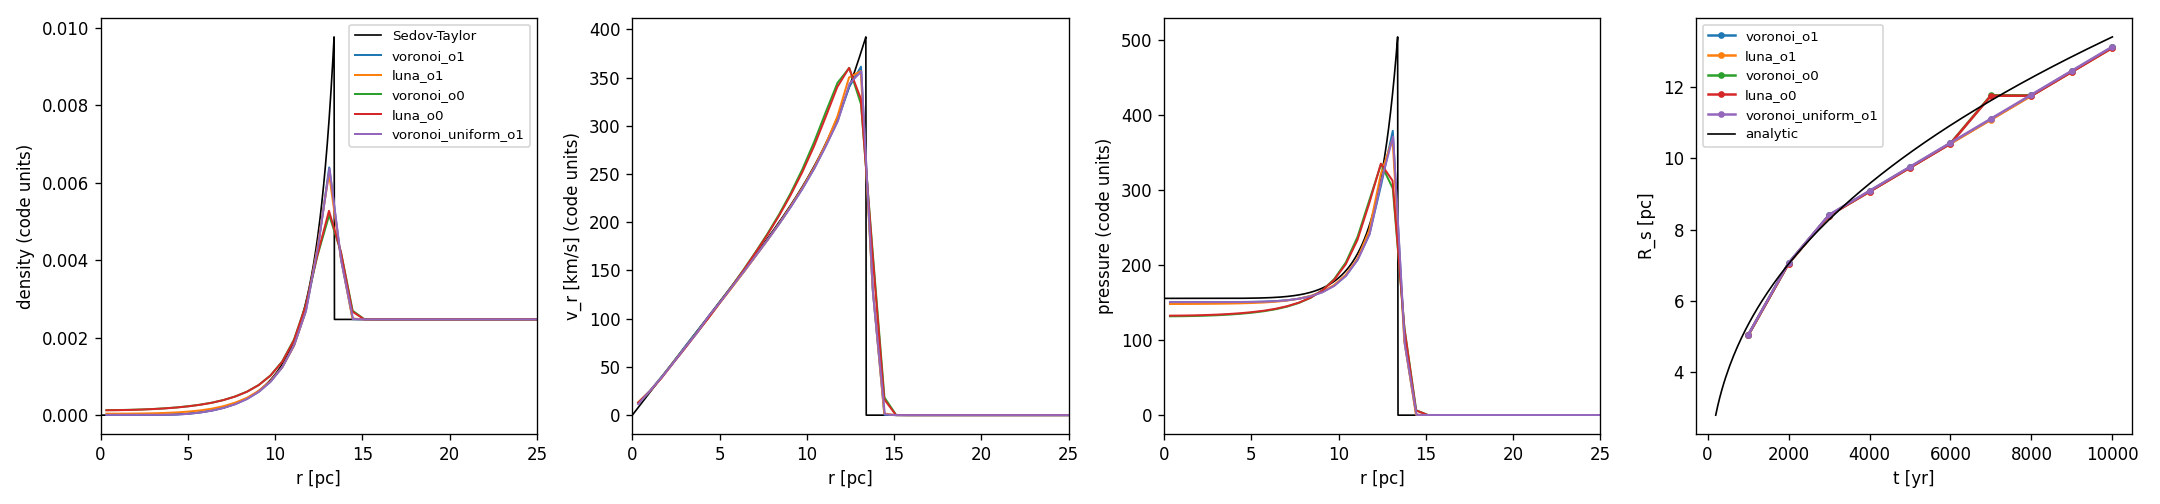
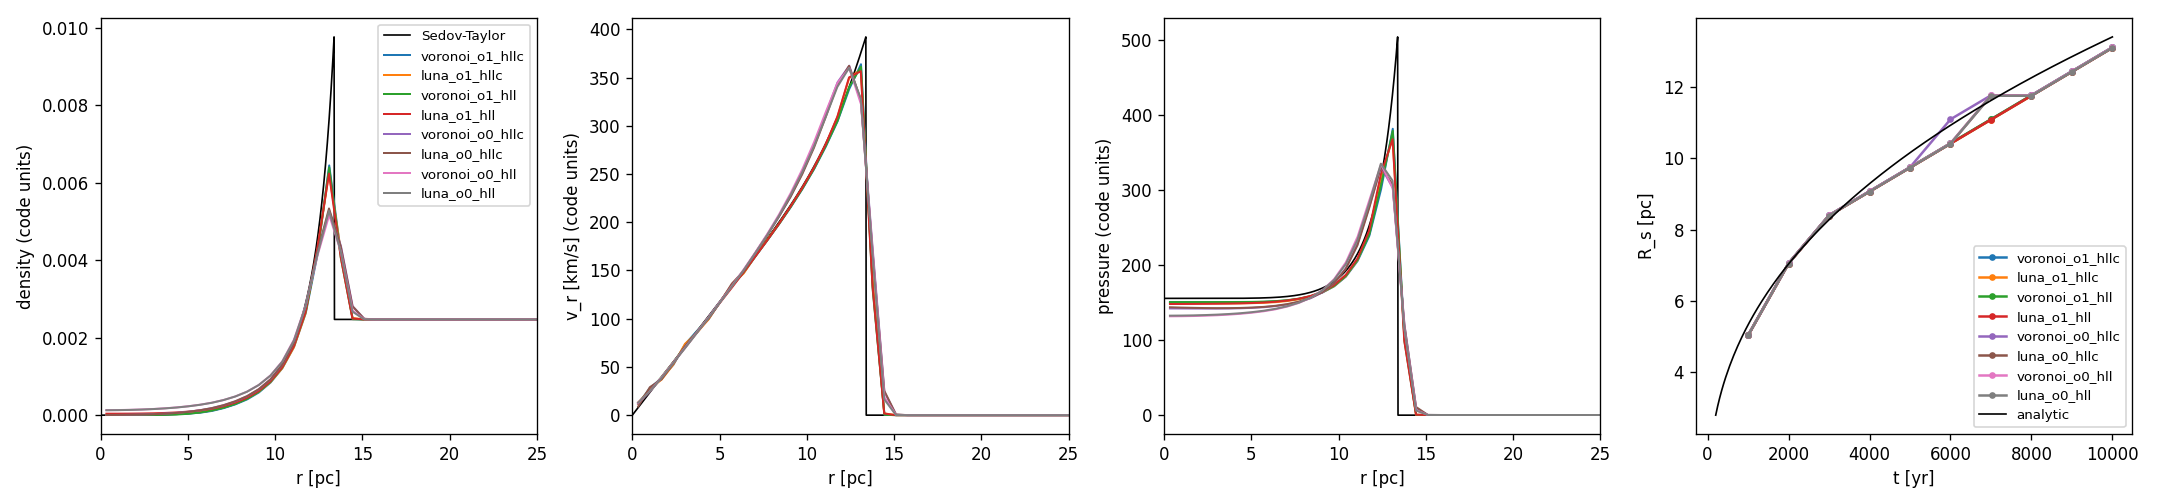
Notes: AREPO-ng time step and fallback, HLLC, limiter study, LUNA at 256^3
Each step mapped to LUNA and AREPO next generation (file:line); the
128^3 Sedov comparison with HLLC and HLL against LUNA (job 31699863); the
thin hot centre traced to the face-centroid limiter under HLL (AREPO-ng's
default, no deviation), gone with HLLC; throughput at 128^3 and 256^3
next to LUNA's XLA and Pallas kernels (jobs 31699864, 31699865); README
and TESTING updated.

diff --git a/research_notes/hydro_stage1_2026-10-31.md b/research_notes/hydro_stage1_2026-10-31.md
@@ -1,189 +1,214 @@
 # Hydro stage 1, 2026-10-31 (branch `hydro-stage1` from main 77a903b)
 
-Static Voronoi mesh, MUSCL-Hancock with HLL (owner's correction of the
-brief: MUSCL-Hancock, not forward Euler; the zero-gradient path is the
-first-order Godunov special case), one global time step, ideal gas.
-Code: `src/hydro/` (header library: `euler.hpp`, `finite_volume.hpp`,
-`snapshot.hpp`), driver `src/bench/hydro_sedov.cpp`, CTest `hydro`,
-A100 script `scripts/hydro_a100.sh`, analysis `scripts/hydro_sedov_compare.py`.
-Logs: `/raven/u/uli/voronoi-cpp/build-hydro/logs/`, runs and snapshots
-`build-hydro/runs2/` (final), `build-hydro/runs/` (first round).
+Static Voronoi mesh, MUSCL-Hancock with HLLC (default) or HLL (owner's
+decisions: MUSCL-Hancock, not forward Euler; HLLC as LUNA's default; the
+zero-gradient path is first-order Godunov), one global time step, ideal
+gas. Code: `src/hydro/` (header library: `euler.hpp`, `finite_volume.hpp`,
+`snapshot.hpp`), driver `src/bench/hydro_sedov.cpp`, CTest `hydro`, A100
+script `scripts/hydro_a100.sh`, analysis `scripts/hydro_sedov_compare.py`.
+Logs: `/raven/u/uli/voronoi-cpp/build-hydro/logs/`, final runs and
+snapshots `build-hydro/runs5/` (limiter study `runs4/`).
 
-References read for every scheme detail: LUNA at /raven/u/uli/LUNA (paths
-below relative to `src/luna/` unless they start with `scripts/`); AREPO
-next generation, read only, from /u/uli/codes/arepo:
+References for every scheme detail: LUNA at /raven/u/uli/LUNA (paths below
+relative to `src/luna/` unless they start with `scripts/` or `docs/`);
+AREPO next generation, read only, from /u/uli/codes/arepo:
 `origin/Arepo2-nextgeneration-SoA` (51af37f5, "SoA") and
 `origin/Arepo2-nextgeneration` (63107335, "ng"); AREPO line numbers are
-SoA unless marked ng. For gradients and limiter the two branches have the
-same algorithm (`diff` of `src/mesh/mesh_gradients.cc`: only the data
-layout and the loop over cells differ); for the face extrapolation the
-same code at other lines. AREPO master was read first and is not used
-(owner: next generation is the gold standard).
+SoA unless marked ng. The two branches have the same gradient, limiter and
+face-state algorithm (`diff` of `src/mesh/mesh_gradients.cc`: data layout
+and the cell loop only; `mesh_fluxes.cc`: the same code at other lines);
+SoA is followed. AREPO master was read first and is not used.
 
 ## What a step does, and where each piece comes from
 
-| Stage | LUNA (what it does, file:line) | Voronoi version (what we do) |
-|---|---|---|
-| state | U = (rho, rho v, E) per volume between steps; W = (rho, vx, vy, vz, P) from U at the start of the step (`time_integration/integrators.py:202-222`: `to_prim`, divergence, `U + dt dU`) | same; U as `View<double*[5]>` (SoA on CUDA), W never stored |
-| U -> W | `cons_to_prim` (`hydro/conversions.py:15-25`); with `preserve_face_states` `cons_to_prim_floored` (`:28-36`: rho >= smallr, e >= smallc^2/(gamma (gamma-1)) rho; U not changed), smallr = smallc = 1e-10 (`template_config.py:41-42`) | always the floored conversion (brief). In the Sedov runs the smallest cell density is 8.4e-6, so the density floor never acts on cell states |
-| time step | `cell_dt` = CFL / sum_d (abs(v_d) + c) / dx_d, CFL 0.8 (`integrators.py:11-13, 23-28`, `template_config.py:32`) | the brief's rule C min r/(c + abs(v)), r = (3V/4pi)^(1/3), C = 0.3, which is AREPO-ng's criterion (`src/time_integration/timestep.cc:156-165`: rad/(c + abs(v)) on a static mesh, times CourantFac). On a cubic cell ours is 0.186 dx/(c+abs(v)), LUNA's 0.267 dx/(c+abs(v)) for flow along an axis: 1.43x more steps from the rule alone |
-| first order | ORDER=0: HLL of the cell states (`hydro/muscl_hancock.py:34-64, 485-495`) | order 0: no gradients, face states = cell states |
-| gradients | per axis, limited one-sided differences of W (`hydro/slopes.py:150-159`; LIMITER 0 minmod `:8-10`, 1 MC `:22-24`, 2 van Leer `:26-33`, `slope_limiter` `:98-108`) | cannot carry over (no axes): AREPO-ng's least-squares fit (`src/mesh/mesh_gradients.cc:150-282`): W_j - W_i = a + g.d over all face neighbours, weight = face area (`:217`, `:263`), d between cell centroids (`:197`, `:243`), unknowns (a, g) (`:204`, `:250`); AREPO inverts by GSL LU (`:229-232`), we use Cholesky of the same symmetric positive definite 4x4 matrix, once for all five variables |
-| limiter | inside the slope (minmod of the one-sided differences) | AREPO-ng: per variable, min/max over the neighbours whose face is at least 1e-6 of the cell surface (`mesh_gradients.cc:61-70`, `src/data/constants.h:285`), then for each such face in order the gradient is scaled so the value at the face centroid stays in [min, max] (`:75-97`, `limit_gradient` `:120-148`; face centroid unless `USE_MINMOD_SLOPE_LIMITING`, `:85-94`). Master's velocity limiter `limit_vel_gradient` is declared in SoA `src/mesh/mesh.h:167` but never called: not used |
-| half step | W_half = W - dt/2 sum_d A_d(W) dW/dx_d, x then y then z (`hydro/muscl_hancock.py:105-116`, rows `hydro/jacobian.py:84-97`) | the same formula with the least-squares gradient as dW/dx_d (`euler.hpp: half_step`). AREPO-ng with `VORONOI_STATIC_MESH` adds the same advective terms to its convective extrapolation (`src/mesh/mesh_fluxes.cc:423-437`), so the two agree on a static mesh |
-| to the face | W_half +- dW/2, half a cell along the axis (`muscl_hancock.py:121-122`) | W_half + g.(face centroid - cell centroid), as AREPO-ng (`mesh_fluxes.cc:372`: FaceCenter - Grad.Center) |
-| bad face state | LUNA's Sedov run uses the defaults, floors off and `allow_first_order_faces=False`: an unphysical face (rho or P <= 0) becomes NaN and the run stops (`hydro/slopes.py:208-228`, `template_config.py:40, 43`); with floors the RAMSES rule (`slopes.py:181-186`) | LUNA's RAMSES rule (`euler.hpp: face_guard`). **Disagreement, the owner's call:** AREPO-ng drops the whole extrapolation when rho or P would not be positive (`mesh_fluxes.cc:467-479`, ng `:731`). How often the guard acts was not counted |
-| Riemann solver | HLL `_hll_core` (`hydro/fluxes.py:135-167`), Davis speeds S_L = min(vn_L - c_L, vn_R - c_R), S_R = max(vn_L + c_L, vn_R + c_R) (`:146-147`), safe sqrt for c (`:142-145`), in the rotated normal frame (`:42-48`) | the same formulas along n = A/abs(A) without rotation (HLL is linear in the vector components, so this equals rotate, solve, rotate back up to rounding: 8e-16 from LUNA's float64 values in CTest `hydro`); a face-velocity argument w for stage 3 with the lab-frame conversion of AREPO-ng's `flux_convert_to_lab_frame` (`mesh_fluxes.cc:492-498`). AREPO-ng has no HLL |
-| update | U + dt dU (`integrators.py:222`) | U_i += -dt / V_i sum over the cell's face list of the outgoing flux times abs(A), in the list's fixed order. AREPO-ng applies two half-weighted flux passes per step (`mesh_fluxes.cc:158`, `src/main/run.cc:166, 285`); not used (owner: MUSCL-Hancock) |
+| Stage | LUNA (file:line) | AREPO-ng (file:line) | Voronoi version |
+|---|---|---|---|
+| state | U = (rho, rho v, E) per volume; W = (rho, vx, vy, vz, P) from U at the start of the step (`time_integration/integrators.py:202-222`) | | same; U as `View<double*[5]>`, W never stored |
+| U -> W | `cons_to_prim`, with `preserve_face_states` `cons_to_prim_floored` (`hydro/conversions.py:15-36`; smallr = smallc = 1e-10, `template_config.py:41-42`) | Utherm floored at MinEgySpec, U changed (`src/mesh/mesh_update_primitives.cc:161-178`) | LUNA's floored conversion, U unchanged (brief); the smallest cell density in the runs is 3.0e-6, the floor 1e-10 |
+| time step | CFL / sum_d (abs(v_d) + c) / dx_d, CFL 0.8 (`integrators.py:11-13, 23-28`, `template_config.py:32`) | per cell CourantFac * min(r / (c + abs(v)) [static mesh], min over particles j a signal can reach of (d_ij + r_i) / (c_i + c_j - (v_j - v_i).d_ij/d_ij)) (`src/data/sph_particle_data.h:305-334`; `src/time_integration/timestep.cc:148-171`; `timestep_treebased.cc:72-91`); r = (3V/4pi)^(1/3) (`sph_particle_data.h:280-287`); with `FORCE_EQUAL_TIMESTEPS` the global minimum (`timestep.cc:39-63`), rounded down to the power-of-two time bins; CourantFac is a parameter (`src/data/allvars.cc:103`), 0.3 in every Sedov example (`examples/sedov_3d/sedov_globaltstp_3d/param.txt:52`, the global-step Sedov), 0.4 in the documentation's example (`documentation/05_parameterfile.md:638`) | **AREPO-ng** (owner): its cell criterion, the pair criterion over the face neighbours only (AREPO walks the tree; a non-neighbour j cannot set the global minimum when d_ij >= r_j, since then (d_ij + r_i)/(A_i + A_j) >= min(r_i/A_i, r_j/A_j), A = c + abs(v)); no time-bin rounding; CourantFac 0.3 |
+| first order | ORDER=0 (`hydro/muscl_hancock.py:34-64, 485-495`) | | order 0: face states = cell states |
+| gradients | per axis, limited one-sided differences (`hydro/slopes.py:150-159`, minmod `:8-10`) | least squares W_j - W_i = a + g.d over all face neighbours, weight = face area (`src/mesh/mesh_gradients.cc:217, 263`), d between cell centroids (`:197, 243`), unknowns (a, g) (`:204, 250`), GSL LU inverse (`:229-232`) | AREPO-ng's fit (LUNA's axes do not exist here); Cholesky of the same SPD 4x4 matrix, once for all five variables |
+| limiter | minmod inside the slope | per variable, min/max over neighbours whose face is at least 1e-6 of the cell surface (`mesh_gradients.cc:61-70`, `src/data/constants.h:285`); for each such face in order, `limit_gradient` keeps W_i + g.d within [min, max] (`:75-97, 120-148`) with d to the face centroid, or to the neighbour's centroid with `USE_MINMOD_SLOPE_LIMITING` (`:85-94`); master's velocity limiter is declared (`src/mesh/mesh.h:167`) but not called | AREPO-ng, face centroids (default); `hydro::Limiter` also offers the cell-centroid variant and none (study below) |
+| half step | W - dt/2 sum_d A_d(W) dW/dx_d (`muscl_hancock.py:105-116`, `hydro/jacobian.py:84-97`) | in the gas frame, plus the advective terms on a static mesh: the same terms (`mesh_fluxes.cc:376-449`); time integration is two half-weighted flux passes (`:158`, `src/main/run.cc:166, 285`) | LUNA's formula (owner: MUSCL-Hancock) |
+| to the face | W_half +- dW/2 (`muscl_hancock.py:121-122`) | W + time and space extrapolation to the face centroid from the gradient's centroid (`mesh_fluxes.cc:372, 451-465`) | W_half + g.(face centroid - cell centroid) |
+| bad face state | Sedov defaults: an unphysical face becomes NaN and the run stops (`hydro/slopes.py:208-228`, `template_config.py:40, 43`) | if rho or P of the extrapolated state is not positive, neither extrapolation is added: the cell-centre W (`mesh_fluxes.cc:466-479`, ng `:731`) | **AREPO-ng** (owner): the cell's W; counted per step (per-face loop) |
+| Riemann solver | HLLC `_hllc_core` (`hydro/fluxes.py:51-106`), the default (`template_config.py:36`); HLL `_hll_core` (`:135-167`); Davis speeds (`:65-66, 146-147`); rotated normal frame (`:9-48`) | no HLL; exact, HLLD (`src/riemann/`) | HLLC (default) and HLL with LUNA's formulas and guards, along n in box axes; lab-frame conversion for a moving face as AREPO-ng (`mesh_fluxes.cc:492-498`) |
+| update | U + dt dU (`integrators.py:222`) | | U_i += -dt / V_i sum over the cell's face list, fixed order |
 
-Our own choices (in neither code): Cholesky instead of LU (same matrix,
-rounding only); the deposit set and the L1 metric (below).
+Solving along n without rotation: in HLL and HLLC every branch is chosen
+by scalars (S_L, S_M, S_R) that do not depend on the frame, and within a
+branch each flux component is the same linear combination of the matching
+components of F, U and U*; HLLC's star momentum rho* (S_M, vt1, vt2) is
+rho* (v_t + S_M n) in box axes with v_t = v - (v.n) n. Rotating is then
+the identity up to rounding; CTest `hydro` checks it under 1000 random
+rotations (3.5e-14) and against LUNA's float64 values (HLL 12 faces,
+8e-16; HLLC 15 faces, 5e-16).
 
 ## Sedov set-up (`scripts/validation/runs/sedov3d_run.py`, `ic_generation/sedov3d.py`)
 
 AREPO units kpc, 1e10 Msun, km/s (`sedov3d_run.py:19-27`), 50 pc box,
-gamma 5/3, t_end = 1e4 yr = 1.0227e-5 (`:28-29, 39-45`); rho = 1 m_p cm^-3,
-P = n k 1e4 K, E = 1e51 erg in code units (`sedov3d.py:9-14, 41-46`):
-rho = 2.4708e-3, P = 0.20395, E = 5.0279e-3. LUNA adds p_inject =
+gamma 5/3, t_end = 1e4 yr = 1.0227e-5 (`:28-29, 39-45`); rho = 1 m_p
+cm^-3, P = n k 1e4 K, E = 1e51 erg in code units (`sedov3d.py:9-14,
+41-46`): rho = 2.4708e-3, P = 0.20395, E = 5.0279e-3. LUNA adds
 (gamma-1) E / (8 dx^3) to P in the 8 central cells (`sedov3d.py:79-106`).
-Ours: cells sorted by the distance of their generator from the box centre
-(periodic nearest image); the deposit set is the prefix of that order
-whose volume sum is closest to 8 (L/128)^3; p_inject = (gamma-1) E /
-V_deposit with V_deposit its actual volume, so exactly E goes in.
-Jittered: 8 cells, 4.690e-10 vs LUNA's 4.768e-10, generators within 0.38
-pc of the centre; uniform random: 7 cells, 4.787e-10, within 0.41 pc.
-LUNA's boundary is zero-gradient (BOUNDARY=1, `sedov3d_run.py:39`), ours
-periodic: at t_end the farthest cell whose density or pressure differs
-from the background by more than 1e-6 is at 15.1-15.9 pc (table below) in
-both codes, the half box is 25 pc: the boundaries never see the blast.
+Ours: cells by distance of their generator from the centre; the deposit
+set is the prefix whose volume sum is closest to 8 (L/128)^3, with
+p_inject = (gamma-1) E / (its actual volume): 8 cells, 4.690e-10 vs
+4.768e-10, within 0.38 pc (jittered); 7 cells (uniform random). LUNA's
+boundary is zero-gradient, ours periodic: at t_end no cell beyond 16.3 pc
+differs from the background by more than 1e-6 (both codes; half box 25 pc).
+Points: jittered lattice (0.1 spacings) or uniform random, in Morton order.
 
-Points: `support::make_points_off_grid` (jittered: lattice moved by up to
-0.1 spacings; uniform random), scaled to the box and renumbered in Morton
-order by the driver (the mesh keeps the caller's numbering; see throughput).
+## Validation at 128^3 (2,097,152 cells), A100, job 31699863
 
-## Validation at 128^3 (2,097,152 cells), A100, job 31698375
+All runs to t_end with 10 snapshots; LUNA `ORDER=1 LIMITER=0` or
+`ORDER=0`, `enable_x64=1`, `~/jax-env`. R_s: peak of the radial density
+profile as LUNA's `scripts/validation/plots/sedov3d_plot.py:78-85` (64
+bins of 0.67 pc; both codes fall in the same bin at all 10 times, so R_s
+resolves nothing finer). L1: volume-weighted mean abs(f - f_exact) over
+r < 1.5 R_s, divided by rho0, the largest analytic v_r and P; "centre":
+the same for density over r < R_s/2 (not LUNA metrics). Analytic: LUNA's
+`hydro/exact_sedov.py`.
 
-Every run to t_end with 10 snapshots. LUNA: /raven/u/uli/LUNA with
-`~/jax-env` (jax 0.10.1, as LUNA's `submit/` scripts), `ORDER=1 LIMITER=0`
-or `ORDER=0`, `riemann_solver=hll enable_x64=1`. Analysis:
-`scripts/hydro_sedov_compare.py` (analytic: LUNA's
-`hydro/exact_sedov.py:solution`). R_s: peak of the radial density profile
-as LUNA's `scripts/validation/plots/sedov3d_plot.py:78-85` with
-`metrics.radial_profile` (64 bins of 0.67 pc; both codes land in the same
-bins, so R_s resolves nothing finer). L1: volume-weighted mean of
-abs(f - f_exact) over r < 1.5 R_s(analytic), divided by rho0, by the
-largest analytic v_r and by the largest analytic P (not a LUNA metric).
-
-| run | steps | R_s / analytic (13.395 pc) | max cell rho/rho0 | profile peak rho/rho0 | L1 rho | L1 v_r | L1 P | disturbed radius |
+| run | steps | R_s/analytic | profile peak rho/rho0 | L1 rho | L1 v_r | L1 P | min rho/rho0 | L1 rho, centre |
 |---|---|---|---|---|---|---|---|---|
-| Voronoi MUSCL-Hancock, jittered | 1110 | 0.978 | 2.843 | 2.587 | 0.0698 | 0.0236 | 0.0193 | 15.07 pc |
-| LUNA ORDER=1 (minmod) | 386 | 0.977 | 2.735 | 2.523 | 0.0708 | 0.0235 | 0.0190 | 15.24 pc |
-| Voronoi first order, jittered | 369 | 0.978 | 2.218 | 2.090 | 0.1010 | 0.0414 | 0.0307 | 15.92 pc |
-| LUNA ORDER=0 | 237 | 0.977 | 2.270 | 2.134 | 0.0974 | 0.0386 | 0.0290 | 15.86 pc |
-| Voronoi MUSCL-Hancock, uniform random | 1953 | 0.980 | 3.060 | 2.576 | 0.0719 | 0.0248 | 0.0207 | 15.66 pc |
+| Voronoi MUSCL-Hancock HLLC | 1642 | 0.978 | 2.608 | 0.0750 | 0.0289 | 0.0203 | 1.43e-3 | 0.0077 |
+| LUNA ORDER=1 HLLC | 1079 | 0.977 | 2.528 | 0.0766 | 0.0311 | 0.0203 | 1.45e-3 | 0.0058 |
+| Voronoi MUSCL-Hancock HLL | 1110 | 0.978 | 2.587 | 0.0698 | 0.0236 | 0.0193 | 3.42e-3 | 0.0022 |
+| LUNA ORDER=1 HLL | 386 | 0.977 | 2.523 | 0.0708 | 0.0235 | 0.0190 | 1.53e-2 | 0.0187 |
+| Voronoi first order HLLC | 1698 | 0.978 | 2.136 | 0.1035 | 0.0446 | 0.0298 | 1.23e-3 | 0.0182 |
+| LUNA ORDER=0 HLLC | 1098 | 0.977 | 2.159 | 0.1039 | 0.0454 | 0.0296 | 1.35e-3 | 0.0172 |
+| Voronoi first order HLL | 369 | 0.978 | 2.090 | 0.1010 | 0.0414 | 0.0307 | 5.19e-2 | 0.0745 |
+| LUNA ORDER=0 HLL | 237 | 0.977 | 2.134 | 0.0974 | 0.0386 | 0.0290 | 5.10e-2 | 0.0734 |
 
-R_s(t) at the 10 snapshot times: the two codes fall in the same bin at
-every time. Plot: `reports/hydro_stage1_sedov128.png` (profiles at 1e4 yr,
-R_s(t)). Conservation over the full runs: total mass and energy change by
-at most 1.7e-16 relative; total momentum stays below 1.1e-22 (scale 5.6e-5).
+Plot: `reports/hydro_stage1_sedov128.png`. Conservation over every full
+run: mass and energy change by at most 1.7e-16 relative.
 
-Steps: first order 369 against LUNA's 237 is the time-step rule (x1.43).
-MUSCL-Hancock takes 1110 against 386: the hot centre is thinner in our run
-(at t_end min rho 8.4e-6 vs LUNA's 3.8e-5, max c + abs(v) 5556 vs 2564
-km/s; job 31698083 snapshots), so the global step is a further 2.2x
-smaller. The analytic centre density goes to zero; whether the limiter
-(AREPO's face limiter vs minmod) or the gradient causes it was not isolated.
+Face fallbacks (AREPO-ng rule), per-face loop, MUSCL-Hancock: HLLC 122,333
+face sides over 1642 steps (in 1638 steps, at most 143 in one step, of
+33.4M face sides per step); HLL 84,310 over 1110 steps (at most 146).
 
-## Throughput, A100 40 GB, double, job 31698376 (gpu1)
+### The thin hot centre and the step count (owner's item 3)
 
-Median over 40 steps from the Sedov start (phases fenced; "time step" =
-the dt reduction); cell updates per second = n / sum of the phase
-medians. Order 1 = MUSCL-Hancock; (b) = per-cell loop (each face flux
-computed from both sides), (c) = per-face flux array plus per-cell gather.
-Jittered points in Morton order unless stated.
+Line by line against `mesh_gradients.cc` (weights, unknowns, centroid
+distances, all neighbours in the fit, the 1e-6 surface threshold for
+min/max and limiter, `limit_gradient` face by face in order, face-centroid
+extrapolation): no deviation found. Variants, 128^3 jittered (jobs
+31699165 with HLL, 31699546 with HLLC, both with the AREPO-ng time step
+and fallback; first order from job 31699863):
 
-| n | order | loop | time step ms | gradients ms | fluxes ms | gather ms | step ms | M cell updates/s |
-|---|---|---|---|---|---|---|---|---|
-| 128^3 | 1 | (b) | 0.12 | 7.06 | 11.95 (with update) | | 19.13 | 110 |
-| 128^3 | 1 | (c) | 0.12 | 7.07 | 2.26 | 5.65 | 15.09 | 139 |
-| 128^3 | 0 | (b) | 0.12 | | 3.37 (with update) | | 3.48 | 602 |
-| 128^3 | 0 | (c) | 0.12 | | 1.52 | 5.65 | 7.29 | 288 |
-| 256^3 | 1 | (b) | 0.69 | 56.66 | 96.21 (with update) | | 153.6 | 109 |
-| 256^3 | 1 | (c) | 0.69 | 56.72 | 17.96 | 45.30 | 120.7 | 139 |
-| 256^3 | 0 | (b) | 0.69 | | 26.50 (with update) | | 27.2 | 617 |
-| 256^3 | 0 | (c) | 0.69 | | 12.14 | 45.31 | 58.1 | 289 |
-| 128^3 uniform random | 1 | (b) | 0.12 | 8.08 | 11.97 (with update) | | 20.17 | 104 |
-| 128^3 uniform random | 1 | (c) | 0.12 | 8.10 | 2.25 | 5.43 | 15.89 | 132 |
+| solver | limiter | steps | min rho/rho0 | L1 rho | L1 rho, centre |
+|---|---|---|---|---|---|
+| HLL | face centroids (AREPO-ng default) | 1110 | 3.4e-3 | 0.0698 | 0.0022 |
+| HLL | cell centroids (`USE_MINMOD_SLOPE_LIMITING`) | 538 | 1.9e-2 | 0.0785 | 0.0251 |
+| HLL | none | NaN after 112 steps | | | |
+| HLL | first order | 369 | 5.2e-2 | 0.1010 | 0.0745 |
+| LUNA HLL | minmod | 386 | 1.5e-2 | 0.0708 | 0.0187 |
+| HLLC | face centroids | 1642 | 1.4e-3 | 0.0750 | 0.0077 |
+| HLLC | cell centroids | 1638 | 1.4e-3 | 0.0841 | 0.0066 |
+| HLLC | none | NaN after 158 steps | | | |
+| LUNA HLLC | minmod | 1079 | 1.5e-3 | 0.0766 | 0.0058 |
 
-Particle order, same job: with the generator's order (lattice rows;
-uniform: random) instead of Morton, order 1: 128^3 jittered (b) 115, (c)
-133 M/s (rows are as good as Morton at this size); 256^3 jittered (b) 67,
-(c) 119 M/s; 128^3 uniform random (b) 16, (c) 23 M/s. The driver uses
-Morton order.
+Cause: with HLL, the face-centroid limiter (AREPO-ng's default) lets the
+centre empty further than minmod (closer to the analytic zero: centre L1
+0.0022 vs 0.0187); the cell-centroid variant gives LUNA's centre and half
+the steps. With HLLC (the default now) both codes empty the centre to
+1.4e-3 rho0 and agree. Not a deviation from AREPO-ng; nothing changed.
+The remaining step ratio with HLLC, 1642/1079 = 1.52, is the time-step
+rule (1.43 on a cubic cell for flow along an axis, above).
 
-Choice: for MUSCL-Hancock (c) is 1.26x (128^3) and 1.28x (256^3) faster
-than (b): the Riemann solve and the face states are done once per face, at
-the price of a 5.6 ms gather. At first order it is the reverse, (b) is
-2.1x faster (cheap flux; the gather dominates). (c) needs the face flux
-array (5 doubles per face, 318 B/cell) and still fits at 256^3 with 1.2 GB
-to spare (memory below). Default in `hydro_sedov`: (c) at order 1; (b) stays
-for first order and as the low-memory option.
+## Throughput, A100 40 GB, double, jobs 31699864 (128^3) and 31699865 (256^3)
 
-Whole Sedov runs (validation job 31698375, 11 HDF5 snapshots, loop (b)):
-MUSCL-Hancock 25.0 s, first order 5.1 s.
+Median over 40 steps from the Sedov start; phases fenced; "time step" =
+the AREPO-ng criterion (one pass over the face neighbours); cell updates
+per second = n / sum of the phase medians. (c) = per-face flux array +
+gather (default at second order), (b) = per-cell loop (default at first
+order). Jittered, Morton order.
+
+| n | order | solver | loop | time step | gradients | fluxes | gather | step ms | M cell updates/s |
+|---|---|---|---|---|---|---|---|---|---|
+| 128^3 | 1 | HLLC | (c) | 2.27 | 7.30 | 3.44 | 5.65 | 18.66 | 112 |
+| 128^3 | 1 | HLLC | (b) | 2.27 | 7.27 | 18.21 (with update) | | 27.76 | 76 |
+| 128^3 | 1 | HLL | (c) | 2.27 | 7.27 | 2.84 | 5.64 | 18.03 | 116 |
+| 128^3 | 1 | HLL | (b) | 2.27 | 7.28 | 12.06 | | 21.61 | 97 |
+| 128^3 | 0 | HLLC | (b) | 2.28 | | 5.01 | | 7.29 | 288 |
+| 128^3 | 0 | HLL | (b) | 2.27 | | 3.45 | | 5.73 | 366 |
+| 256^3 | 1 | HLLC | (c) | 18.69 | 58.78 | 37.49 | 45.25 | 160.2 | 105 |
+| 256^3 | 1 | HLLC | (b) | 18.70 | 58.78 | 146.72 | | 224.2 | 75 |
+| 256^3 | 1 | HLL | (c) | 18.72 | 58.80 | 24.53 | 45.25 | 147.3 | 114 |
+| 256^3 | 1 | HLL | (b) | 18.72 | 58.75 | 95.63 | | 173.1 | 97 |
+| 256^3 | 0 | HLLC | (b) | 18.67 | | 39.15 | | 57.8 | 290 |
+| 256^3 | 0 | HLL | (b) | 18.71 | | 27.38 | | 46.1 | 364 |
+
+Earlier jobs for the record: with the brief's local rule only (no pair
+criterion) the time step took 0.12 ms (128^3); counting fallbacks inside
+the per-cell loop by a reduction made it 2x slower (job 31699166), so (b)
+does not count them. Particle order (job 31698376, HLL, older time step):
+in generator order instead of Morton, 256^3 (b) 67 vs 109 M/s, uniform
+random 128^3 (b) 16 vs 104 M/s.
+
+Whole MUSCL-Hancock runs, 128^3, no snapshots (job 31699864): HLLC 1642
+steps, 30.6 s of GPU phases (18.6 ms/step); HLL 1110 steps, 20.1 s.
 
 ### LUNA on the same problem and GPU type (reference; not for the README)
 
-| | steps | ms/step | M cells/s | job |
-|---|---|---|---|---|
-| LUNA ORDER=1 HLL minmod, no snapshots | 383 | 6.34 | 331 | 31698376 (same job as the table above) |
-| LUNA ORDER=0 HLL, no snapshots | 234 | 3.68 | 570 | 31698376 |
-| LUNA ORDER=1, no snapshots | 383 | 7.77 | 270 | 31698086 (earlier job) |
-| LUNA ORDER=0, no snapshots | 234 | 5.54 | 378 | 31698086 |
-| LUNA ORDER=1, 11 snapshots | 386 | 13.11 / 18.19 | 160 / 115 | 31698375 / 31698083 |
+LUNA's own 10-step "perf" windows (steady: the median over the windows
+after step 10), and its "Performance after step 1" line (whole run,
+compile excluded). Kernels: `hydro_kernel='xla'` (default) and
+`'pallas'` (`docs/CONFIG.md:33, 652-655`; LUNA's docs report the Pallas
+split step on an A100 at 1108 Mcell/s, Sedov 512^3 FP64,
+`docs/HYDRO_KERNEL_PATHS.md:145-150`; the fused XLA kernel was slower
+here, jobs 31699166 and 31699167: 359 vs 413 M/s at 128^3, 509 vs 682 at 256^3).
 
-LUNA's numbers are its "Performance after step 1 (no compile, output
-included)" line; they vary by 20-40 % between jobs. Per step our
-MUSCL-Hancock (c) (15.1 ms) is 2.4x LUNA's 6.3 ms; per run (steps x
-ms/step: 1110 x 15.1 ms = 16.8 s against 383 x 6.3 ms = 2.4 s) about 7x,
-at the same accuracy (validation table). The extra steps (above) are half
-of it.
+| n | solver | kernel | steady M cells/s | whole run ms/step | steps | job |
+|---|---|---|---|---|---|---|
+| 128^3 | HLLC | Pallas | 833 | 2.97 | 1075 | 31699864 |
+| 128^3 | HLLC | XLA | 481 | 4.81 | 1075 | 31699864 |
+| 128^3 | HLL | Pallas | 942 | 3.49 | 383 | 31699864 |
+| 128^3 | HLL | XLA | 413 | 6.31 | 383 | 31699864 |
+| 256^3 | HLLC | Pallas | 1050 | 20.21 | 100 | 31699865 |
+| 256^3 | HLLC | XLA | 633 | 30.77 | 100 | 31699865 |
+| 256^3 | HLL | Pallas | 1249 | 17.51 | 100 | 31699865 |
+| 256^3 | HLL | XLA | 666 | 29.43 | 100 | 31699865 |
 
-## Memory (Kokkos allocations on the device, `--memory`, job 31698376)
+Against ours (same jobs): at 256^3 HLLC, ours 105 M/s vs LUNA's 1050
+(Pallas) / 633 (XLA): 10x / 6x per step. Whole 128^3 Sedov run, HLLC:
+ours 30.6 s, LUNA 1074 x 2.97 ms = 3.2 s (Pallas) / 5.2 s (XLA): 9.6x /
+5.9x GPU time, at the accuracy of the validation table (1.52x of it from
+the step count).
+
+## Memory (Kokkos allocations on the device, `--memory`, job 31699865)
 
 | | 128^3 B/cell | 256^3 B/cell | 256^3 GPU in use (of 42.4 GB) |
 |---|---|---|---|
-| mesh after `update()` + `update_cells()` (current) | 2143 | 2143 | 37.4 GB |
+| mesh after `update()` + `update_cells()` | 2143 | 2143 | 37.4 GB |
 | peak while building the mesh | 2167 | 2167 | |
-| + hydro (b), order 0 or 1: U and a second U (80 B); gradients in the mesh's spare ring pool (no growth) | 2223 | 2223 | 38.7 GB |
-| + hydro (c), order 1: U (40 B); gradients (120 B) and face fluxes (318 B) in the spare pool, which grows by 188 B/cell | 2370 | 2371 | 41.2 GB |
-| + hydro (c), order 0: U; face fluxes in the spare pool | 2250 | 2251 | 39.2 GB |
+| + hydro (b): U and a second U (80 B); gradients in the mesh's spare ring pool (no growth) | 2223 | 2223 | 38.7 GB |
+| + hydro (c), order 1: U (40 B); gradients (120 B) and face fluxes (318 B) in the spare pool, grown by 188 B/cell | 2370 | 2371 | 41.2 GB |
 
-Gradients are stored (15 doubles per cell), not recomputed: recomputing
+Gradients are stored (15 doubles per cell), not recomputed (recomputing
 means a least-squares fit for each side of every face, about 16 x 16
-neighbour loads per cell, against 120 B/cell that cost no new memory
-here because they live in the mesh's spare ring pool (`Mesh::scratch`),
-idle while the mesh does not change (asked for at every step, since
-`update()` and `update_cells()` invalidate it). Left at 256^3: 3.7 GB
-(~220 B/cell) with (b), 1.2 GB (~70 B/cell) with (c).
+neighbour loads per cell); they cost no new memory because they live in the
+mesh's spare ring pool (`Mesh::scratch`), asked for at every step. Left at
+256^3: 3.7 GB (b), 1.2 GB (c).
 
 ## Tests and checks
 
-CTest `hydro` (TESTING.md): 2.3 s on one CPU thread, 0.85 s on the A100;
-all 7 CTest programs pass on the CPU (OpenMP, one thread) and on the A100
-(job 31698375). clang-tidy (`scripts/lint_cpp.sh`, the header filter now
-includes `src/hydro`) is clean. The two loops give the same bits, and two
-runs give the same bits (CPU and A100).
+CTest `hydro` (TESTING.md): 4.0 s on one CPU thread; all 7 CTest programs
+pass on the CPU (OpenMP, one thread, 38.9 s) and on the A100 (job
+31699863). clang-tidy (`scripts/lint_cpp.sh`, header filter includes
+`src/hydro`) clean. Two runs give the same bits; the two loops agree to
+4e-16 (HLL: same bits; HLLC: last bits differ between the two kernels,
+cause not isolated).
 
 ## Open items
 
-- Unphysical face states: LUNA's RAMSES floors (now) or AREPO-ng's
-  dropped extrapolation (owner's call); count them per step.
-- Thinner centre than LUNA at second order (2.2x more steps): isolate
-  limiter against gradient (AREPO's `USE_MINMOD_SLOPE_LIMITING` variant,
-  or a minmod-type face limiter).
-- The (c) gather (5.6 ms at 2.1M) reads 5 face rows strided by the face
-  count, in face-list order; an interleaved face flux or a face numbering
-  that follows the cell lists may cut it.
-- Sound wave convergence and Sod (design note) not run yet.
-- HLLC (stage 2), moving mesh (stage 3).
+- The time step's neighbour pass (2.3 ms at 128^3, 12 % of a step) could
+  be fused into the gradient kernel (it loads the same neighbours) if dt is
+  taken after the gradients.
+- The (c) gather (5.6 ms at 128^3) reads 5 face rows strided by the face
+  count; an interleaved face flux may cut it.
+- HLLC per-cell loop (b) is 2.4x its per-face cost; (b) is only the
+  low-memory option at second order.
+- Sound wave convergence and Sod (design note) not run yet; moving mesh
+  (stage 3).

diff --git a/TESTING.md b/TESTING.md
@@ -30,7 +30,7 @@ CPU times: OpenMP build (gcc 15), one thread of a Raven login node
 | `start` | ~4096 (13 layouts), 32768 | 19 s | the start (`tet_start::build`) is the Delaunay tetrahedralization of the snapped positions for jittered, uniform, clustered, lattice, wave, sc/bcc/fcc, icosahedral shells, planes and pairs, in boxes of side 1, 2 and 3: a brute-force oracle checks that it triangulates the box (every triangle twice with apexes on opposite sides, adjacency, all particles used, exact volume sum) and that every circumsphere is empty (exact, perturbed); every edge has one representative (also wave at 32768, the dropped-face regression); jittered needs no patch; the oracle rejects a mesh with one corner moved |
 | `repair` | ~4096 | 10 s | steps of a smooth flow through `voronoi::Mesh`: jittered (0.03 and 0.3 spacings, 10 steps), lattice and wave (0.03 and 0.3, 4 steps; their starts are decided by the perturbation alone, wave's first step is the step-1 regression), shells@1e-9 (0.03, 2 steps), jittered in a box of side 2 (0.3, 3 steps); after every step no failing triangle (brute force), the same Delaunay neighbours and face count as an exact rebuild by clipping, volumes within 1e-10, total volume the box |
 | `voronoi_mesh` | 4096 | 2 s | the hydro contract of `voronoi::Mesh` on off-grid positions in a box of side 2: the first update builds an exact mesh; faces once with owner < neighbour, closing every cell; volumes fill the box; per-cell face lists name each face twice, in increasing id of the other particle; cell centroids equal clipping's; the same input gives the same volumes and centroids bit for bit; a permuted input gives the permuted faces; a local rebuild returns each face of the listed cells once with the mesh's area; updates repair and stay exact; `Fallback::rebuild` rebuilds a stuck step exactly |
-| `hydro` | 4096 (jittered, uniform) | 2.3 s | the finite-volume hydro (`src/hydro/`): HLL equals LUNA's `hll_flux_primitive` on 12 sample faces (values printed by LUNA, float64; within 1e-14), equal states give the exact flux, also through a moving face (F(U) - (w.n) U), swapping states and normal flips the flux; on jittered and uniform random meshes, first and second order, per-cell and per-face loops: a uniform moving state stays uniform to rounding (3 steps, within 1e-13; measured 4e-16), mass, momentum and energy of a rough state (a blast plus 30 % random perturbations) are conserved over 10 steps within 1e-14 (measured 1e-18, long double sums); two runs give the same bits, and so do the per-cell and per-face loops |
+| `hydro` | 4096 (jittered, uniform) | 4.0 s | the finite-volume hydro (`src/hydro/`): HLLC and HLL equal LUNA's `hllc_flux_primitive` / `hll_flux_primitive` on 15 / 12 sample faces (values printed by LUNA, float64; within 1e-14), equal states give the exact flux, also through a moving face (F(U) - (w.n) U), swapping states and normal flips the flux, rotating states, normal and face velocity rotates the flux (1000 random rotations, 1e-13); HLLC on jittered and uniform random meshes, HLL on jittered, first and second order, per-cell and per-face loops: a uniform moving state stays uniform to rounding (3 steps, within 1e-13), mass, momentum and energy of a rough state (a blast plus 30 % random perturbations) are conserved over 10 steps within 1e-14 (long double sums); two runs give the same bits; the two loops agree within 1e-12 (measured 4e-16 with HLLC, the same bits with HLL) |
 
 ### Oracles
 
